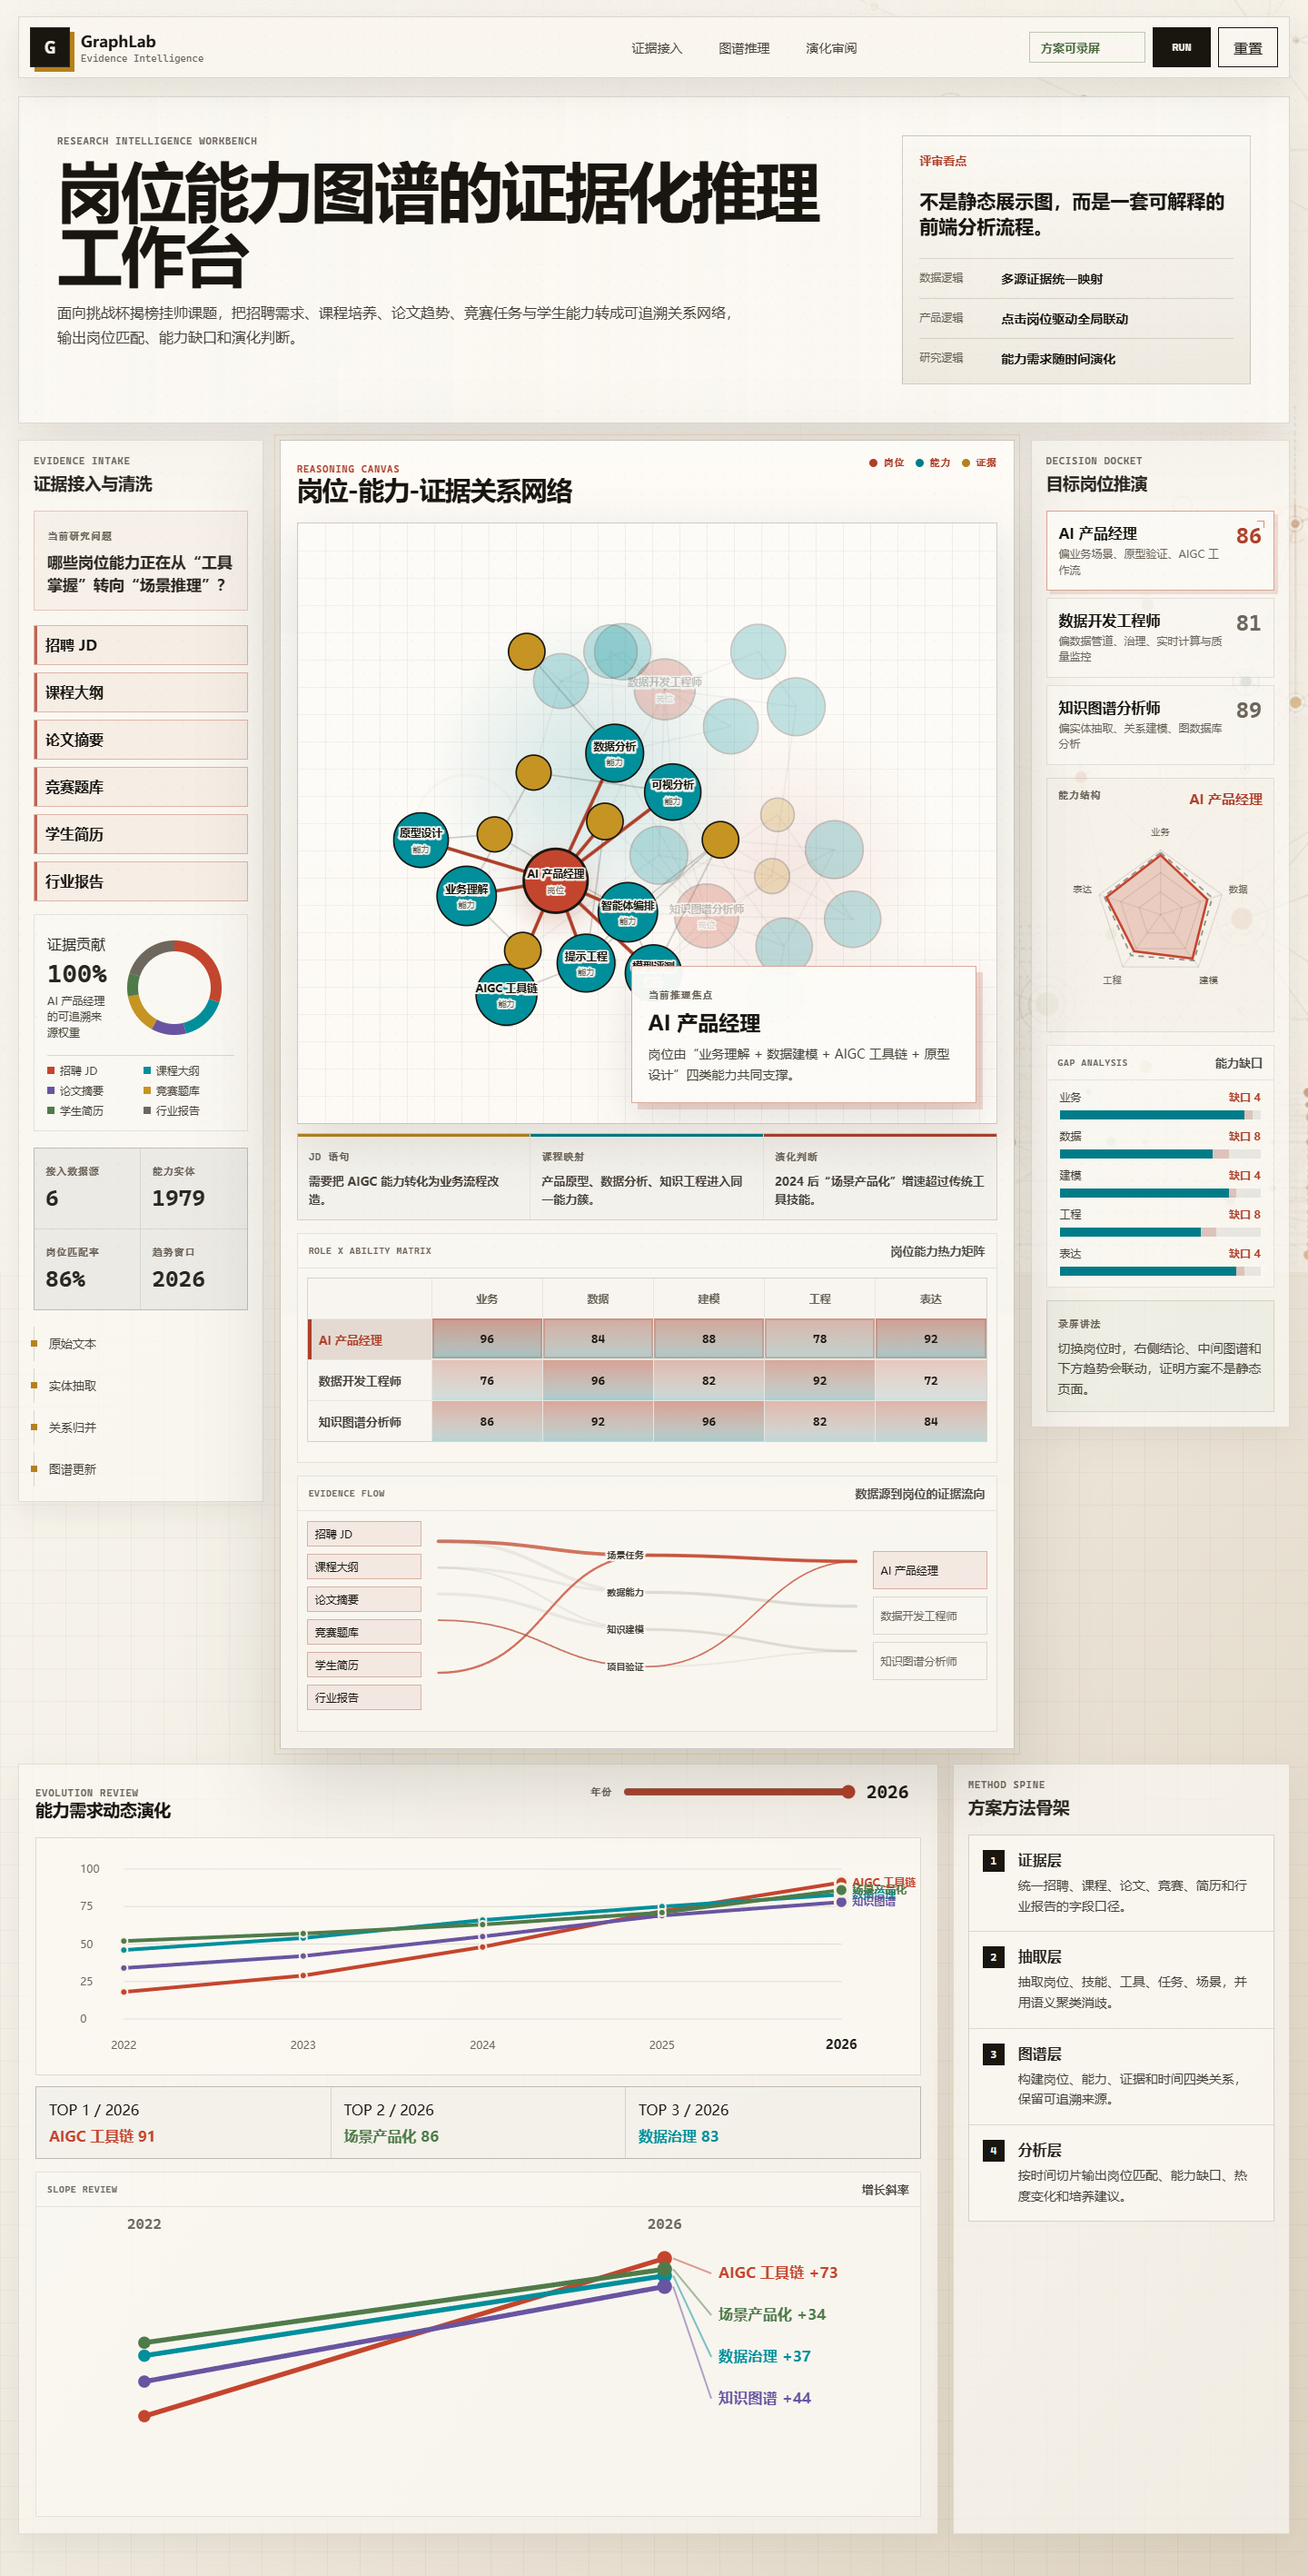
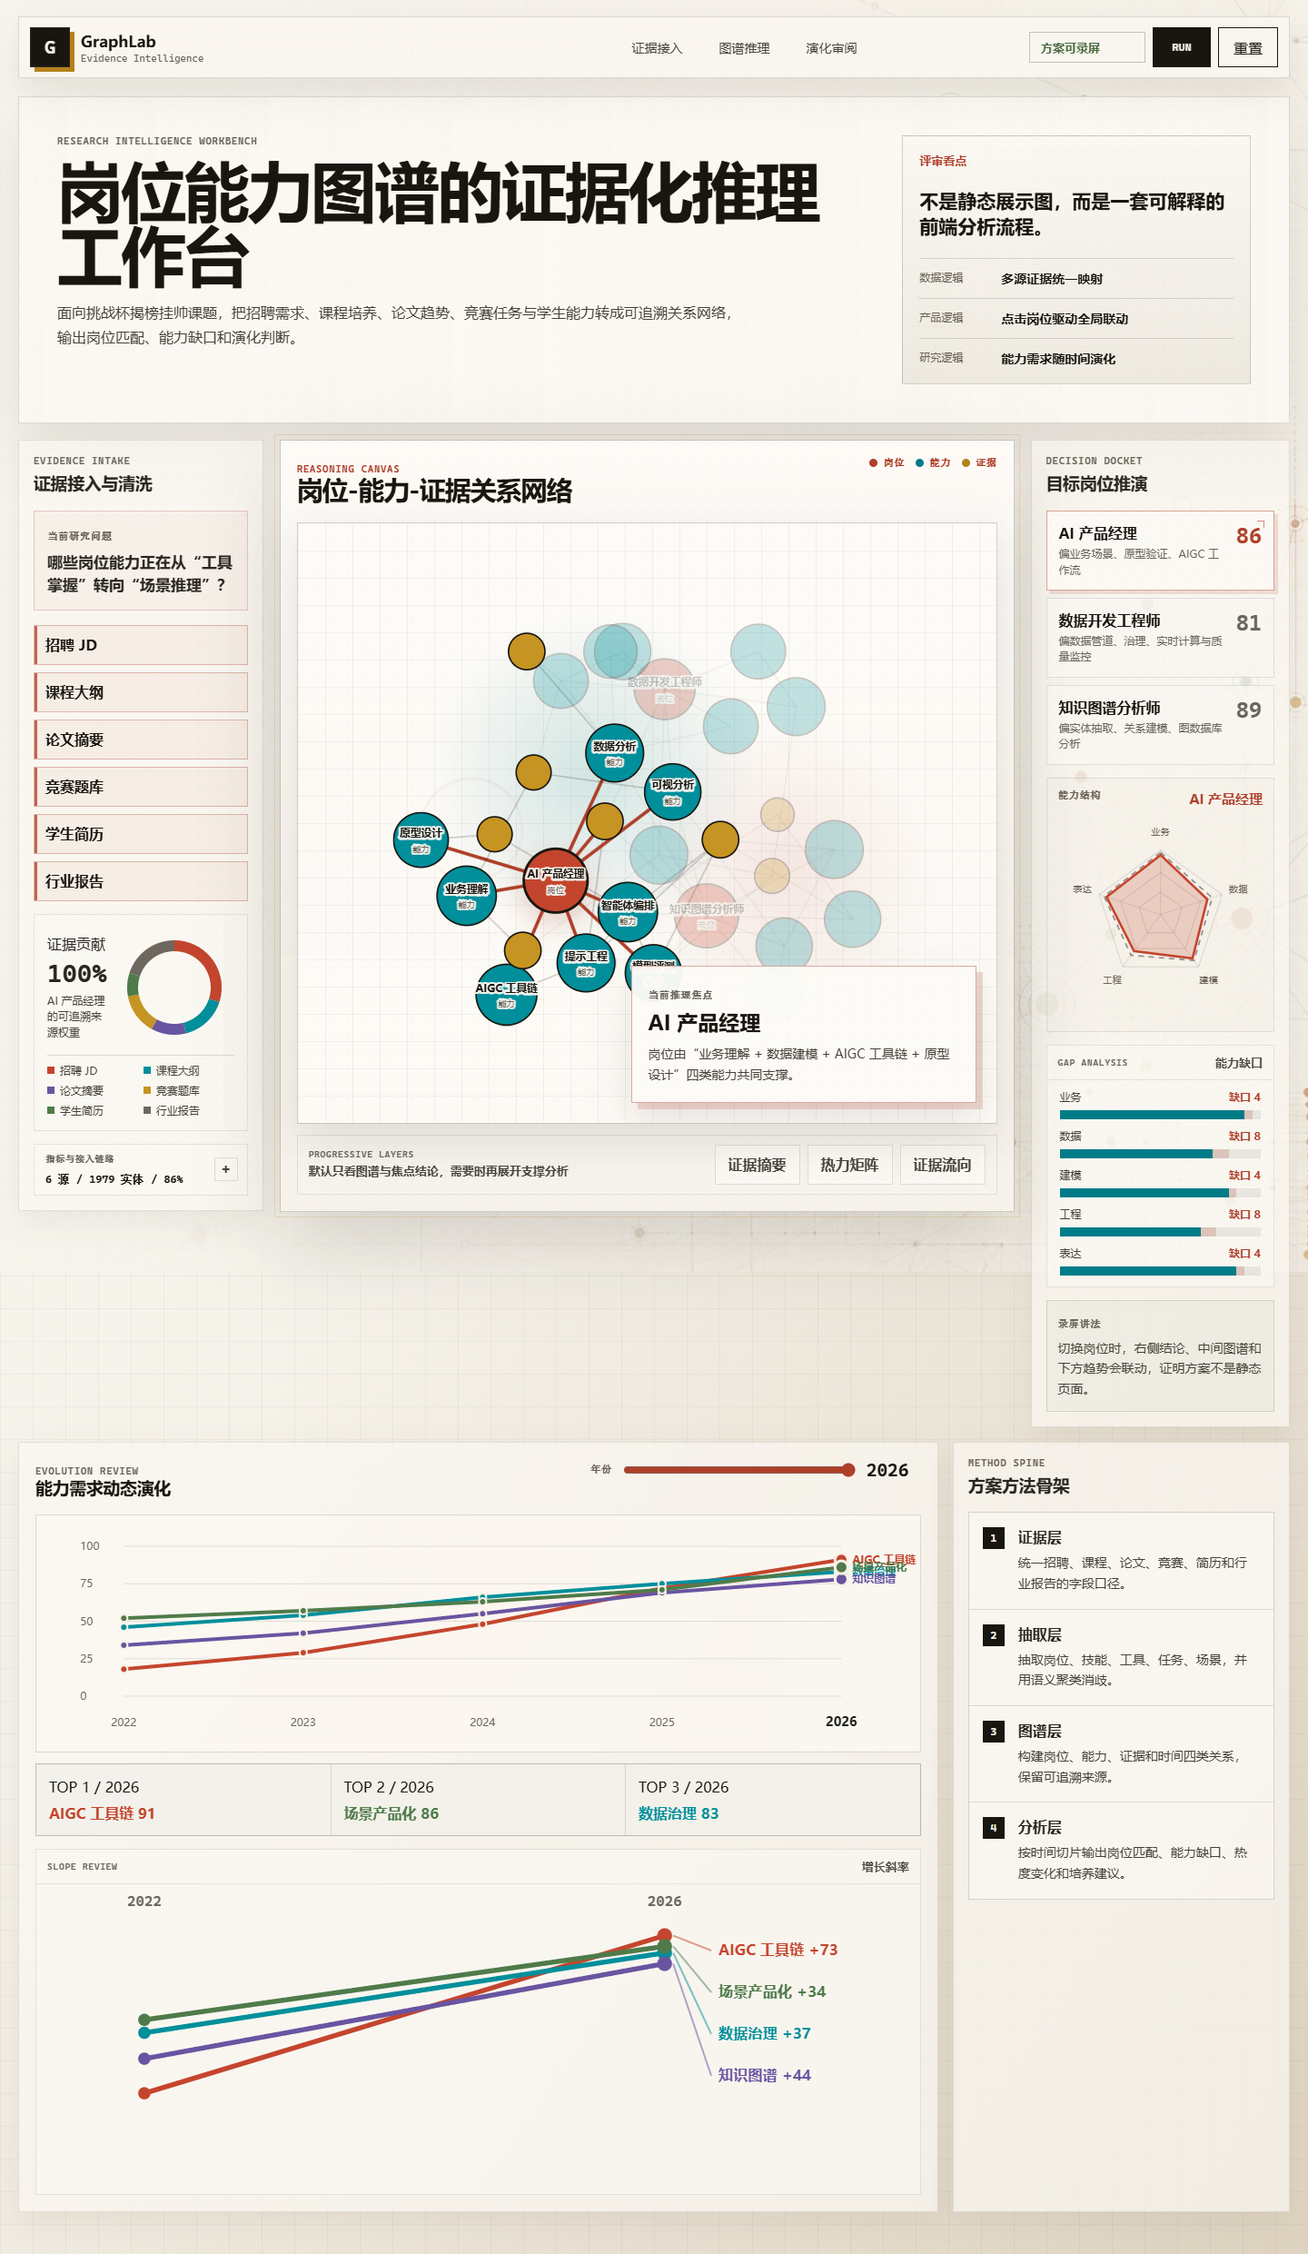
Reduce workbench cognitive load

diff --git a/src/components/KnowledgeGraph.tsx b/src/components/KnowledgeGraph.tsx
@@ -18,6 +18,13 @@ interface KnowledgeGraphProps {
 const roleNodeIds: RoleId[] = ["ai-pm", "data-engineer", "knowledge-analyst"];
 
 type LayoutNode = GraphNode & { x: number; y: number };
+type InsightLayer = "trail" | "heatmap" | "flow";
+
+const insightLayers: Array<{ id: InsightLayer; label: string }> = [
+  { id: "trail", label: "证据摘要" },
+  { id: "heatmap", label: "热力矩阵" },
+  { id: "flow", label: "证据流向" },
+];
 
 const yearIndexByValue: Record<number, number> = {
   2022: 0,
@@ -82,6 +89,7 @@ export function KnowledgeGraph({
   const svgRef = useRef<SVGSVGElement | null>(null);
   const [draggingId, setDraggingId] = useState<string | null>(null);
   const [hoveredId, setHoveredId] = useState<string | null>(null);
+  const [activeLayer, setActiveLayer] = useState<InsightLayer | null>(null);
   const [positionOverrides, setPositionOverrides] = useState<Record<string, { x: number; y: number }>>({});
   const focusedIds = useMemo(
     () => getOneHopNodeIds(drilldownNodeId ?? activeRole.id, activeSources),
@@ -216,22 +224,54 @@ export function KnowledgeGraph({
           <p>{activeRole.insight}</p>
         </div>
       </div>
-      <div className="evidence-trail" aria-label="证据链示例">
-        <div>
-          <span>JD 语句</span>
-          <strong>需要把 AIGC 能力转化为业务流程改造。</strong>
+
+      <div className="analysis-dock" aria-label="按需展开分析层">
+        <div className="analysis-dock-head">
+          <span>Progressive Layers</span>
+          <strong>默认只看图谱与焦点结论，需要时再展开支撑分析</strong>
         </div>
-        <div>
-          <span>课程映射</span>
-          <strong>产品原型、数据分析、知识工程进入同一能力簇。</strong>
-        </div>
-        <div>
-          <span>演化判断</span>
-          <strong>2024 后“场景产品化”增速超过传统工具技能。</strong>
+        <div className="analysis-tabs" role="tablist" aria-label="图谱支撑分析层">
+          {insightLayers.map((layer) => (
+            <button
+              key={layer.id}
+              type="button"
+              role="tab"
+              aria-selected={activeLayer === layer.id}
+              aria-controls={`analysis-layer-${layer.id}`}
+              className={activeLayer === layer.id ? "is-active" : ""}
+              onClick={() => setActiveLayer((current) => (current === layer.id ? null : layer.id))}
+            >
+              {layer.label}
+            </button>
+          ))}
         </div>
       </div>
-      <AbilityHeatmap activeRoleId={activeRole.id} syncPulse={syncPulse} />
-      <EvidenceFlowChart activeRoleId={activeRole.id} activeSources={activeSources} />
+      {activeLayer === "trail" ? (
+        <div className="evidence-trail analysis-layer" id="analysis-layer-trail" role="tabpanel" aria-label="证据链摘要">
+          <div>
+            <span>JD 语句</span>
+            <strong>需要把 AIGC 能力转化为业务流程改造。</strong>
+          </div>
+          <div>
+            <span>课程映射</span>
+            <strong>产品原型、数据分析、知识工程进入同一能力簇。</strong>
+          </div>
+          <div>
+            <span>演化判断</span>
+            <strong>2024 后“场景产品化”增速超过传统工具技能。</strong>
+          </div>
+        </div>
+      ) : null}
+      {activeLayer === "heatmap" ? (
+        <div className="analysis-layer" id="analysis-layer-heatmap" role="tabpanel">
+          <AbilityHeatmap activeRoleId={activeRole.id} syncPulse={syncPulse} />
+        </div>
+      ) : null}
+      {activeLayer === "flow" ? (
+        <div className="analysis-layer" id="analysis-layer-flow" role="tabpanel">
+          <EvidenceFlowChart activeRoleId={activeRole.id} activeSources={activeSources} />
+        </div>
+      ) : null}
     </article>
   );
 }

diff --git a/src/styles/workbench.css b/src/styles/workbench.css
@@ -541,6 +541,70 @@ h1 {
   display: inline-block;
 }
 
+.dossier-details {
+  margin-top: 14px;
+  border: 1px solid oklch(22% 0.012 82 / 0.1);
+  background: oklch(98% 0.008 86 / 0.48);
+}
+
+.dossier-details summary {
+  min-height: 44px;
+  display: grid;
+  grid-template-columns: minmax(0, 1fr) 24px;
+  align-items: center;
+  gap: 10px;
+  padding: 10px 12px;
+  cursor: pointer;
+  list-style: none;
+}
+
+.dossier-details summary::marker {
+  content: "";
+}
+
+.dossier-details summary::-webkit-details-marker {
+  display: none;
+}
+
+.dossier-details summary::after {
+  content: "+";
+  width: 24px;
+  height: 24px;
+  display: grid;
+  place-items: center;
+  border: 1px solid oklch(22% 0.012 82 / 0.12);
+  color: var(--ink-soft);
+  font-family: "Geist Mono", "Cascadia Mono", monospace;
+  font-weight: 800;
+}
+
+.dossier-details[open] summary::after {
+  content: "-";
+}
+
+.dossier-details summary span {
+  grid-column: 1;
+  color: var(--muted);
+  font-family: "Geist Mono", "Cascadia Mono", monospace;
+  font-size: 10px;
+  font-weight: 800;
+  letter-spacing: 0.06em;
+  text-transform: uppercase;
+}
+
+.dossier-details summary strong {
+  grid-column: 1;
+  color: var(--ink);
+  font-family: "Geist Mono", "Cascadia Mono", monospace;
+  font-size: 12px;
+}
+
+.dossier-details summary::after {
+  grid-column: 2;
+  grid-row: 1 / span 2;
+  align-self: center;
+}
+
 .metric-stack div {
   min-height: 88px;
   padding: 12px;
@@ -661,6 +725,79 @@ h1 {
   color: var(--ink-soft);
   font-size: 14px;
   line-height: 1.68;
+}
+
+.analysis-dock {
+  display: grid;
+  grid-template-columns: minmax(220px, 1fr) auto;
+  align-items: center;
+  gap: 14px;
+  margin-top: 12px;
+  padding: 10px 12px;
+  border: 1px solid oklch(22% 0.012 82 / 0.1);
+  background: oklch(98% 0.008 86 / 0.5);
+}
+
+.analysis-dock-head span {
+  display: block;
+  color: var(--muted);
+  font-family: "Geist Mono", "Cascadia Mono", monospace;
+  font-size: 10px;
+  font-weight: 800;
+  letter-spacing: 0.06em;
+  text-transform: uppercase;
+}
+
+.analysis-dock-head strong {
+  display: block;
+  margin-top: 4px;
+  color: var(--ink-soft);
+  font-size: 13px;
+  line-height: 1.45;
+}
+
+.analysis-tabs {
+  display: flex;
+  flex-wrap: wrap;
+  justify-content: flex-end;
+  gap: 8px;
+}
+
+.analysis-tabs button {
+  min-height: 44px;
+  padding: 0 14px;
+  border: 1px solid oklch(22% 0.012 82 / 0.12);
+  background: oklch(99% 0.006 86 / 0.72);
+  color: var(--ink-soft);
+  font-weight: 800;
+  transition: 180ms var(--ease);
+}
+
+.analysis-tabs button:hover,
+.analysis-tabs button.is-active {
+  border-color: oklch(53% 0.105 205 / 0.45);
+  background: oklch(53% 0.105 205 / 0.08);
+  color: var(--ink);
+}
+
+.analysis-tabs button.is-active {
+  box-shadow: inset 0 -3px 0 var(--skill);
+}
+
+.analysis-layer {
+  animation: layer-enter 220ms var(--ease);
+}
+
+@keyframes layer-enter {
+  from {
+    opacity: 0;
+    transform: translateY(-6px);
+  }
+
+  to {
+    opacity: 1;
+    transform: translateY(0);
+  }
 }
 
 .evidence-trail {
@@ -1659,6 +1796,18 @@ h1 {
   .evolution-summary,
   .source-ring-legend {
     grid-template-columns: 1fr;
+  }
+
+  .analysis-dock {
+    grid-template-columns: 1fr;
+  }
+
+  .analysis-tabs {
+    justify-content: flex-start;
+  }
+
+  .dossier-details summary strong {
+    white-space: normal;
   }
 
   .source-ring-card {

diff --git a/src/components/DossierPanel.tsx b/src/components/DossierPanel.tsx
@@ -44,30 +44,36 @@ export function DossierPanel({
         ))}
       </div>
       <SourceContributionRing activeSources={activeSources} role={role} />
-      <div className="metric-stack" aria-label="关键指标">
-        <div>
-          <span>接入数据源</span>
-          <strong>{activeSources.size}</strong>
+      <details className="dossier-details">
+        <summary>
+          <span>指标与接入链路</span>
+          <strong>{activeSources.size} 源 / {skillEntityCount} 实体 / {matchScore}%</strong>
+        </summary>
+        <div className="metric-stack" aria-label="关键指标">
+          <div>
+            <span>接入数据源</span>
+            <strong>{activeSources.size}</strong>
+          </div>
+          <div>
+            <span>能力实体</span>
+            <strong>{skillEntityCount}</strong>
+          </div>
+          <div>
+            <span>岗位匹配率</span>
+            <strong>{matchScore}%</strong>
+          </div>
+          <div>
+            <span>趋势窗口</span>
+            <strong>{year}</strong>
+          </div>
         </div>
-        <div>
-          <span>能力实体</span>
-          <strong>{skillEntityCount}</strong>
+        <div className="intake-flow" aria-label="分析链路">
+          <span>原始文本</span>
+          <span>实体抽取</span>
+          <span>关系归并</span>
+          <span>图谱更新</span>
         </div>
-        <div>
-          <span>岗位匹配率</span>
-          <strong>{matchScore}%</strong>
-        </div>
-        <div>
-          <span>趋势窗口</span>
-          <strong>{year}</strong>
-        </div>
-      </div>
-      <div className="intake-flow" aria-label="分析链路">
-        <span>原始文本</span>
-        <span>实体抽取</span>
-        <span>关系归并</span>
-        <span>图谱更新</span>
-      </div>
+      </details>
     </aside>
   );
 }

diff --git a/tests/e2e/workbench.spec.ts b/tests/e2e/workbench.spec.ts
@@ -27,11 +27,15 @@ test("renders the workbench and keeps graph, role, source, and year views linked
   await expect(page.locator(".graph-panel")).toHaveAttribute("data-sync-pulse", "1");
   await expect(page.locator(".evolution-panel")).toHaveAttribute("data-sync-pulse", "1");
   await expect(page.locator('.role-card[data-role-id="data-engineer"]')).toHaveClass(/is-active/);
+  await expect(page.locator(".heatmap-panel")).toHaveCount(0);
+  await page.getByRole("tab", { name: "热力矩阵" }).click();
   await expect(page.locator('.heatmap-row[data-role-id="data-engineer"] .heatmap-cell').first()).toHaveClass(/is-active/);
   await expect(page.locator('[data-node-id="ai-pm"]')).toHaveClass(/is-dim/);
   await expect(page.locator('[data-node-id="etl"]')).not.toHaveClass(/is-dim/);
 
   await page.locator(".source-chip").first().click();
+  await expect(page.locator(".dossier-details summary")).toContainText("5 源");
+  await page.locator(".dossier-details summary").click();
   await expect(page.locator(".metric-stack div").first().locator("strong")).toHaveText("5");
 
   await page.locator("#year-slider").fill("2024");
